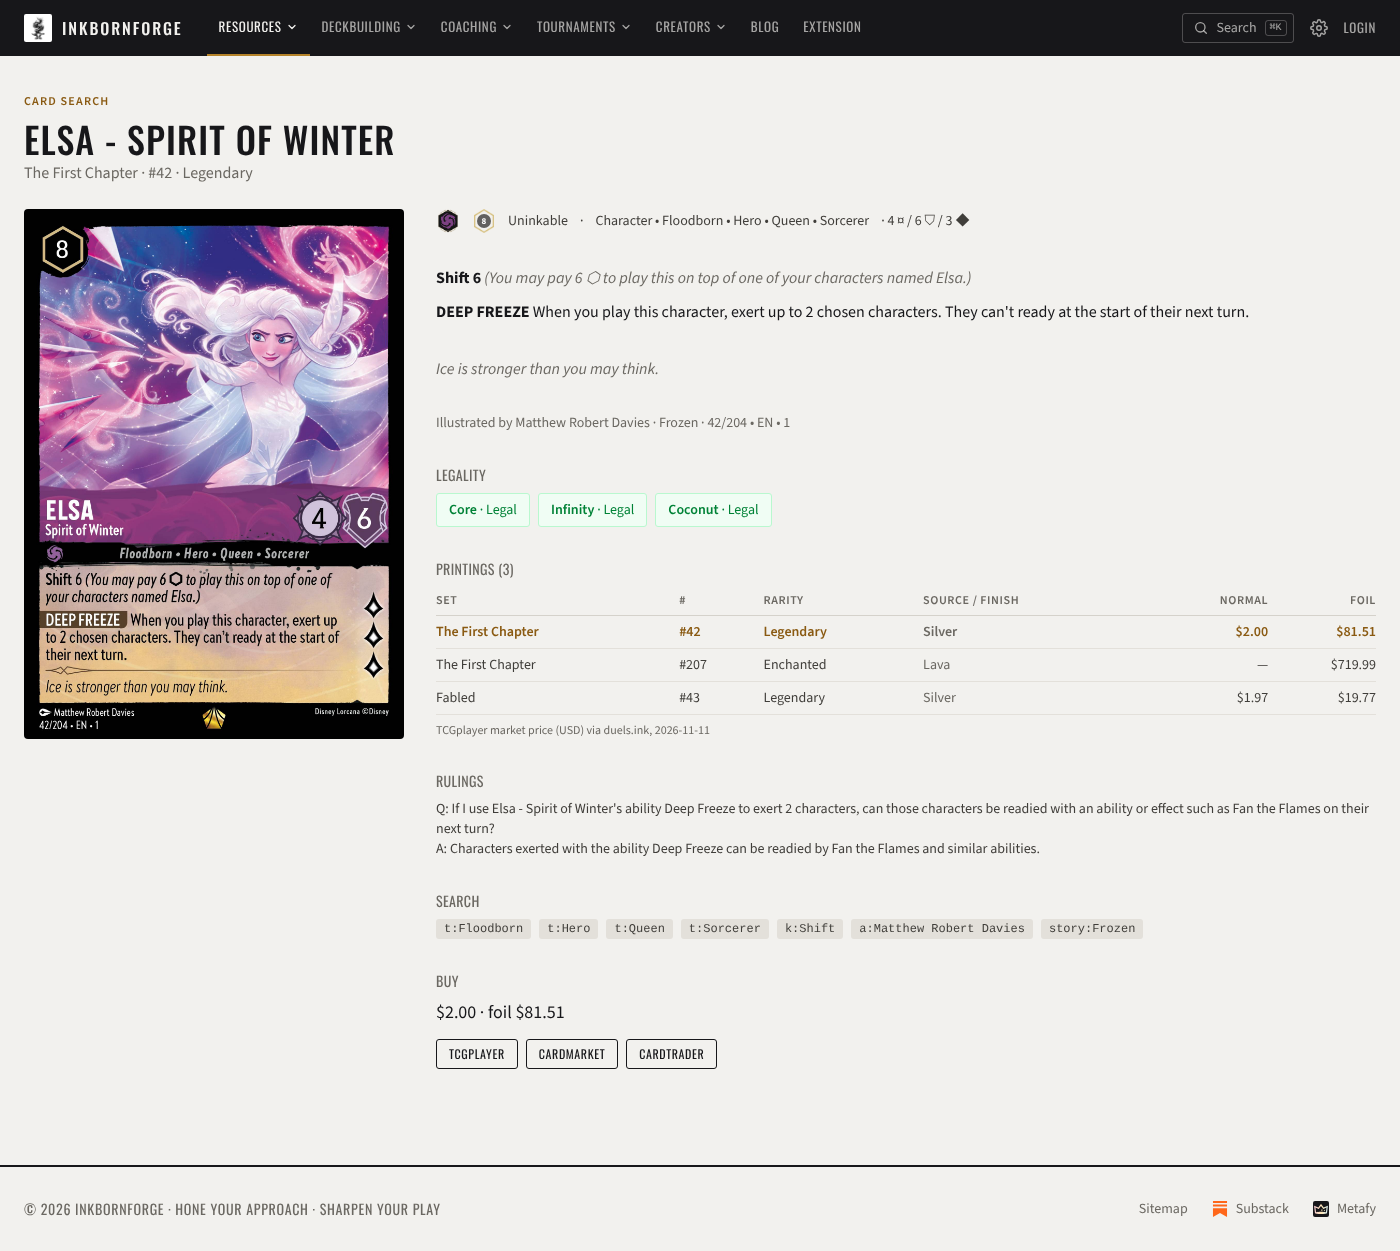
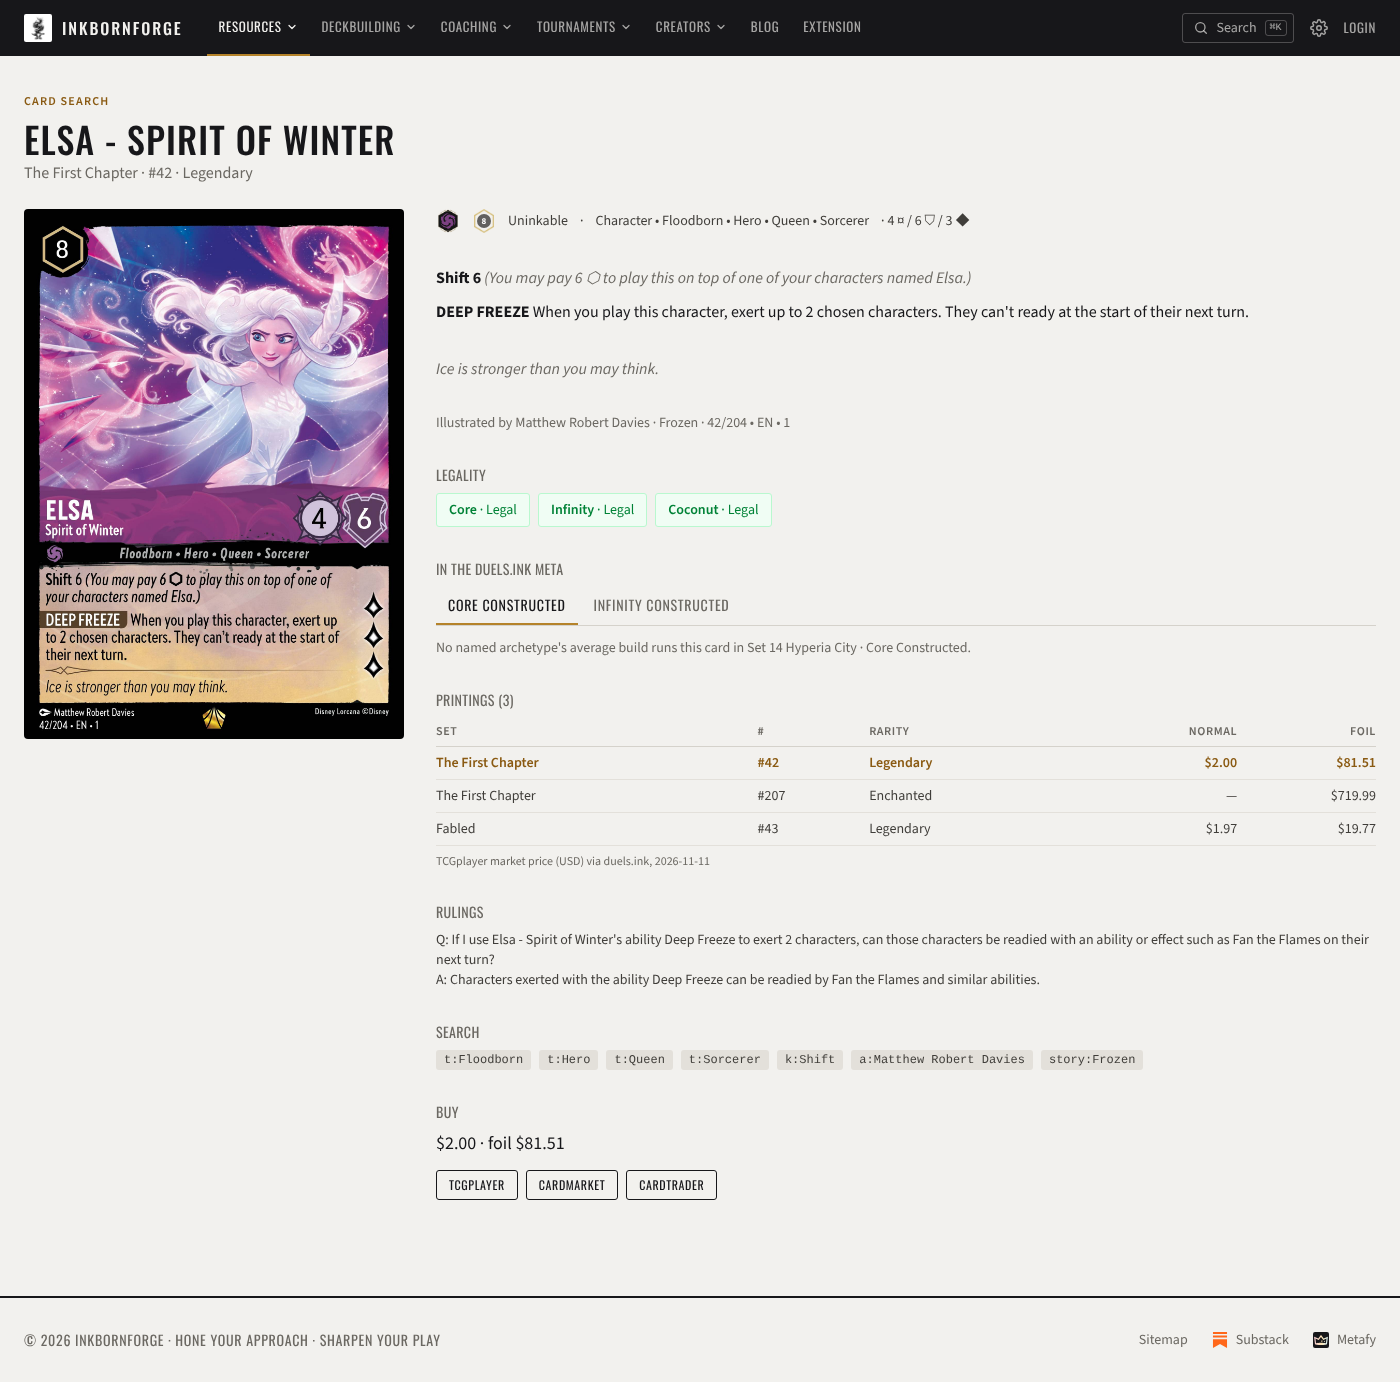
Card page: drop the Source / finish column from Printings
At the user's request. (Its values were LorcanaJSON's promoSource and
foilTypes; the promo source still shows in the page header.)

Claude-Session: https://claude.ai/code/session_01TJQgszhZ2yF1gkJNK27vPD

diff --git a/src/pages/CardPage.jsx b/src/pages/CardPage.jsx
@@ -142,7 +142,6 @@ export function CardPage() {
                     <th className="py-1.5 pr-3 font-semibold">Set</th>
                     <th className="py-1.5 pr-3 font-semibold">#</th>
                     <th className="py-1.5 pr-3 font-semibold">Rarity</th>
-                    <th className="py-1.5 pr-3 font-semibold">Source / finish</th>
                     <th className="py-1.5 pr-3 font-semibold text-right">Normal</th>
                     <th className="py-1.5 font-semibold text-right">Foil</th>
                   </tr>
@@ -156,7 +155,6 @@ export function CardPage() {
                         <td className="py-1.5 pr-3"><Link to={cardPath(p)} className="hover:underline">{sets[p.setCode]?.name ?? `Set ${p.setCode}`}</Link></td>
                         <td className="py-1.5 pr-3 whitespace-nowrap">#{printingNumber(p)}</td>
                         <td className="py-1.5 pr-3">{p.rarity}</td>
-                        <td className="py-1.5 pr-3 text-gray-500">{p.promoSource ?? (p.foilTypes ?? []).filter(f => f !== 'None').join(', ')}</td>
                         <td className="py-1.5 pr-3 text-right tabular-nums">{usd(price?.normal)}</td>
                         <td className="py-1.5 text-right tabular-nums">{usd(price?.foil)}</td>
                       </tr>
